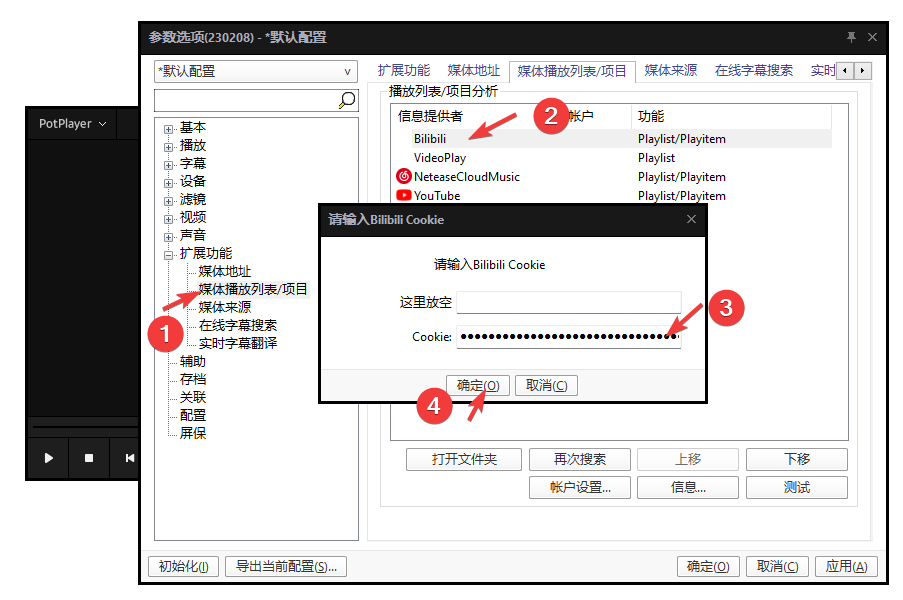
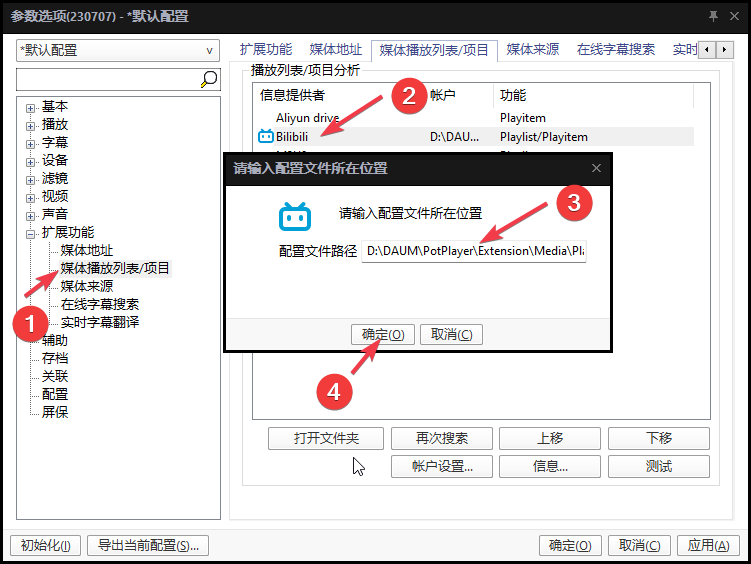
feat: 添加配置文件，可设置弹幕 (#65)

diff --git a/README.md b/README.md
@@ -6,7 +6,7 @@
 
 [下载项目](https://github.com/chen310/BilibiliPotPlayer/archive/refs/heads/master.zip)
 
-将项目 `Media/PlayParse` 路径下的 `MediaPlayParse - Bilibili.as` 和 `MediaPlayParse - Bilibili.ico` 两个文件复制到 `{PotPlayer 安装路径}\Extension\Media\PlayParse` 文件夹下。
+将项目 `Media/PlayParse` 路径下的 `MediaPlayParse - Bilibili.as`、`MediaPlayParse - Bilibili.ico` 和 `Bilibili_Config.json` 三个文件复制到 `{PotPlayer 安装路径}\Extension\Media\PlayParse` 文件夹下。
 
 `MediaPlayParse - Bilibili.as` 提供了解析 `Bilibili` 链接的功能。
 
@@ -18,7 +18,7 @@
 
 ## 登录
 
-打开 PotPlayer，按 <kbd>F5</kbd> 打开选项，点击`扩展功能`下的`媒体播放列表/项目`，再点击 `Bilibili`，然后打开`账户设置`，在 `Cookie` 一栏粘贴你的 Bilibili Cookie。
+找到刚刚复制过去的配置文件 `Bilibili_Config.json`，填写 Cookie 等设置内容。 打开 PotPlayer，按 <kbd>F5</kbd> 打开选项，点击`扩展功能`下的`媒体播放列表/项目`，再点击 `Bilibili`，然后打开`账户设置`，填写配置文件路径，如 `D:\DAUM\PotPlayer\Extension\Media\PlayParse\Bilibili_Config.json`。每次修改完配置文件，可能都要重启 PotPlayer 才能生效。
 
 ![Login](https://cdn.jsdelivr.net/gh/chen310/BilibiliPotPlayer/public/login.png)
 
